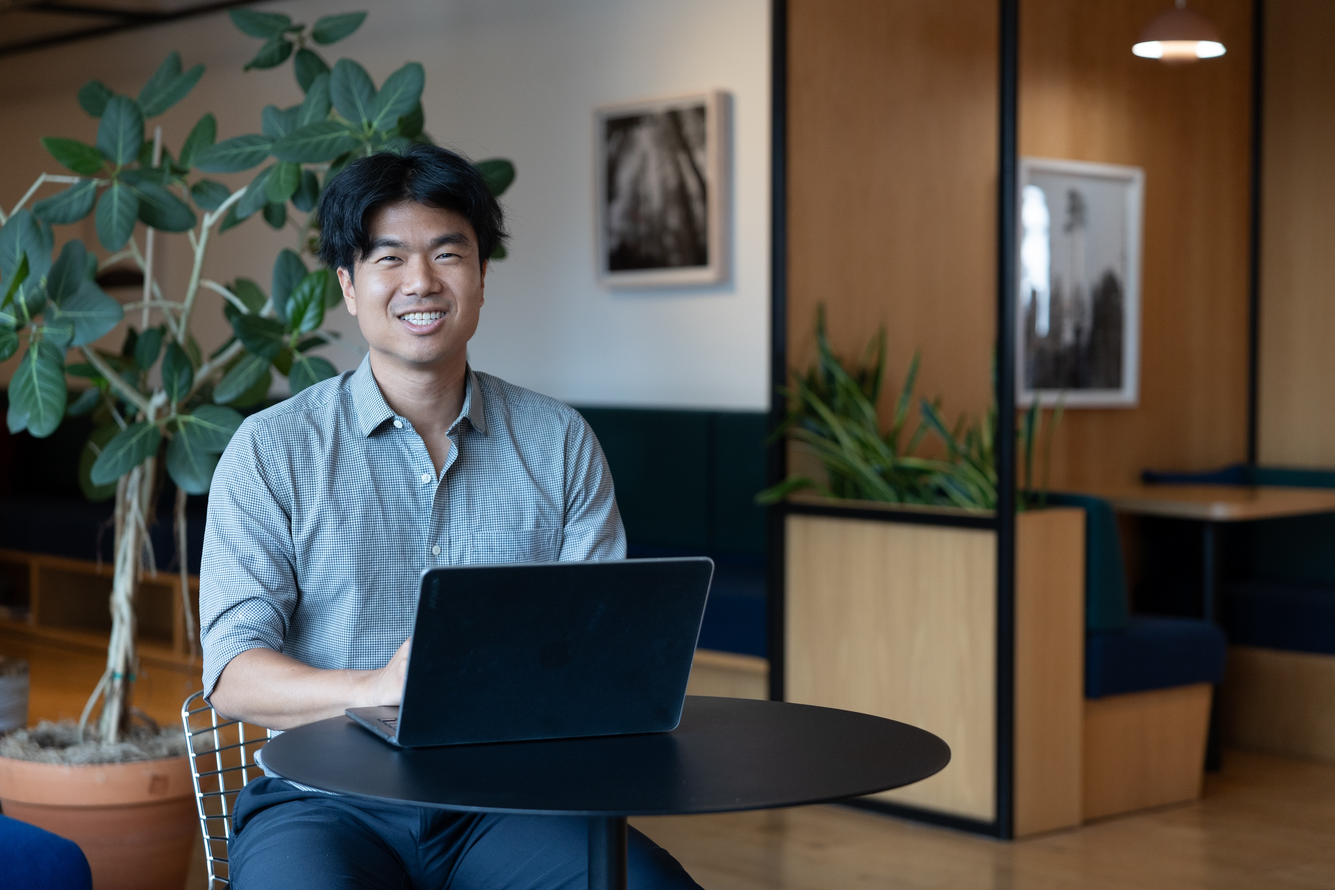
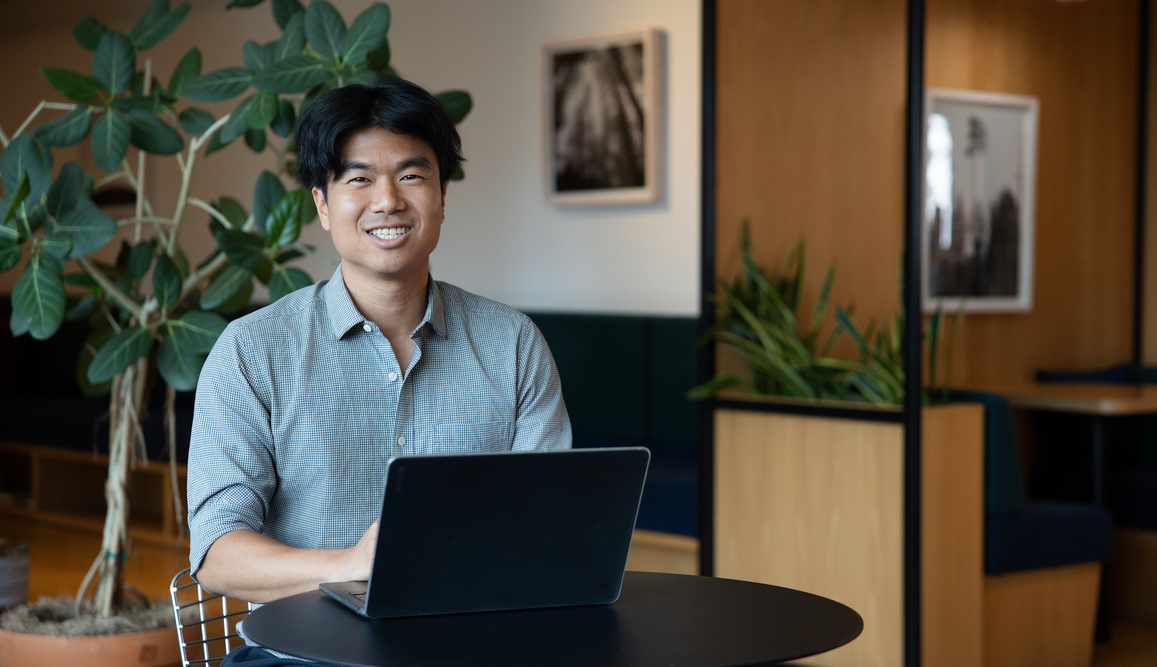
copy: Update images

diff --git a/src/pages/HomePage/index.css b/src/pages/HomePage/index.css
@@ -14,7 +14,7 @@
 .leftColumn {
   background: url('./background_inside.jpg') no-repeat;
   background-size: cover;
-  padding-bottom: 61.8%; /* Roughly 1089 / 1762 (aspect-ratio of background.jpg) */
+  padding-bottom: 66.6%;
 }
 
 .tabletHeader {
